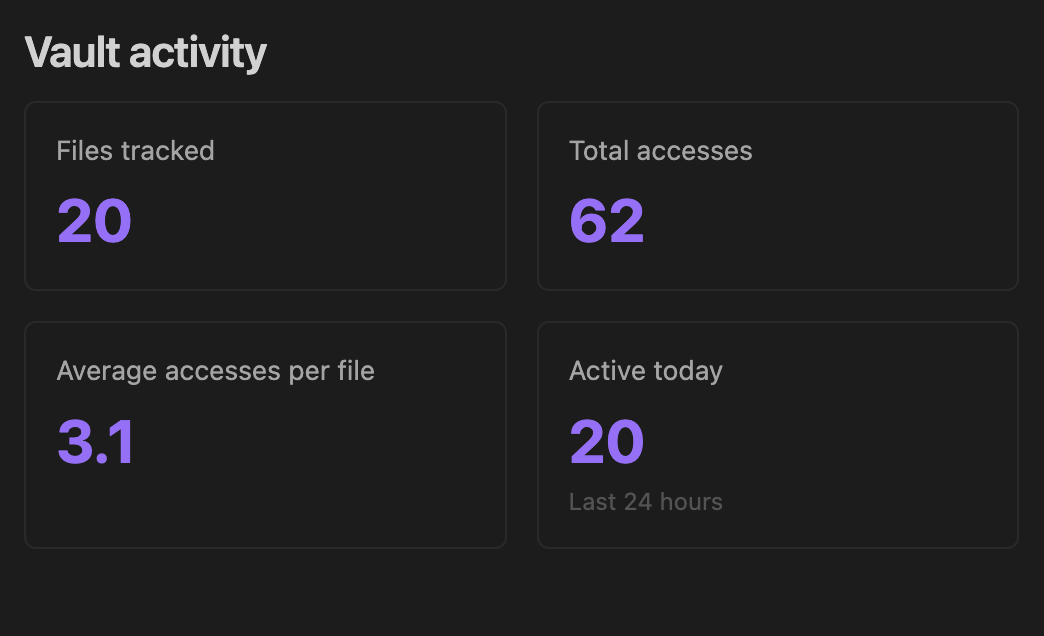
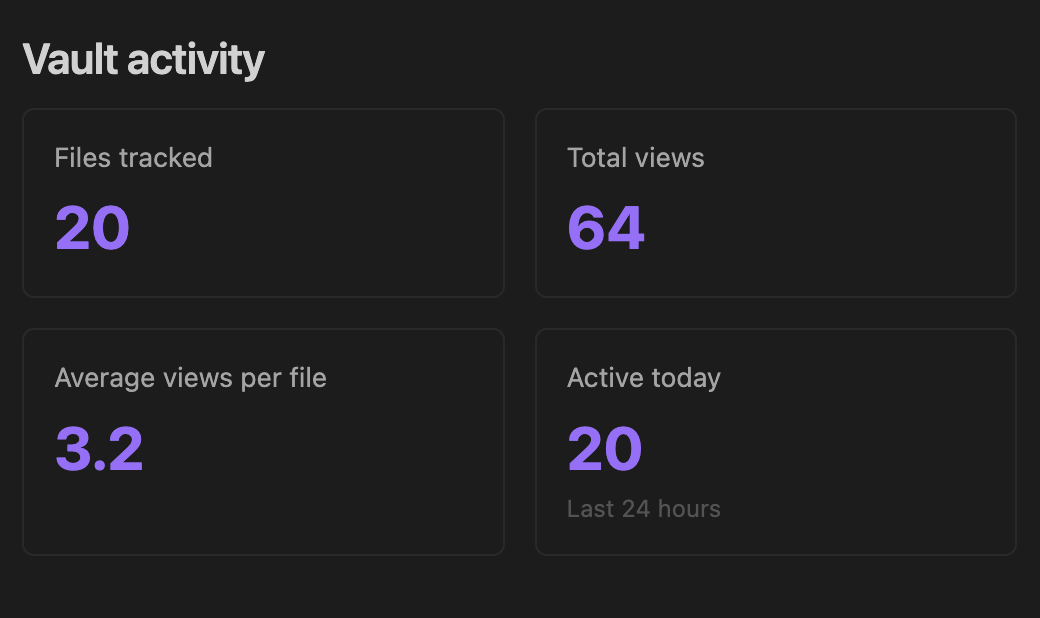
update description

diff --git a/src/ActivityTracker.ts b/src/ActivityTracker.ts
@@ -110,7 +110,7 @@ export class ActivityTracker {
 		const file = app.vault.getAbstractFileByPath(randomNote.path);
 		if (file instanceof TFile) {
 			await app.workspace.getLeaf().openFile(file);
-			new Notice(`Opened neglected note: ${file.basename}`);
+			new Notice(`Opened inactive note: ${file.basename}`);
 		} else {
 			new Notice('Note no longer exists: ' + randomNote.path);
 		}

diff --git a/src/main.ts b/src/main.ts
@@ -72,7 +72,7 @@ export default class VaultActivityPlugin extends Plugin {
 
 		this.addCommand({
 			id: 'open-random-neglected',
-			name: 'Open random neglected note',
+			name: 'Open random inactive note',
 			callback: () => void this.tracker.openRandomNeglected(this.app)
 		});
 

diff --git a/README.md b/README.md
@@ -1,6 +1,6 @@
 # Vault Activity
 
-Track how often you access notes, Bases, and attachments across your vault to map your overall usage patterns. Use these insights to identify which areas are most active and which files or datasets have been forgotten, guiding cleaner organization and better knowledge retention.
+Track how often you access notes, bases, and attachments across your vault to map your overall usage patterns. Use these insights to identify which areas are most active and which files or datasets have been forgotten, guiding cleaner organization and better knowledge retention.
 
 ![Demo](media/plugin-ui.png)
 
@@ -9,17 +9,19 @@ Track how often you access notes, Bases, and attachments across your vault to ma
 - **Automatic tracking** of file access and modifications
 - **Activity dashboard** showing most/least viewed notes
 - **Smart filtering** with folder exclusions
-- **Random neglected note** command to rediscover forgotten content
+- **Random inactive note** command to rediscover forgotten content
 - **Markdown reports** with activity summaries
 
 ## Commands
 
-- `Open activity dashboard` - View real-time activity stats
-- `Show most viewed notes` - Top 20 most opened files
-- `Show least viewed notes` - Bottom 20 least opened files
-- `Open random neglected note` - Discover forgotten content
-- `Generate activity report` - Create markdown summary
-- `Clear all activity data` - Reset tracking
+| Command                      | Description                   |
+| ---------------------------- | ----------------------------- |
+| `Open activity dashboard`    | View real-time activity stats |
+| `Show most viewed notes`     | Top 20 most opened files      |
+| `Show least viewed notes`    | Bottom 20 least opened files  |
+| `Open random inactive note` | Discover forgotten content    |
+| `Generate activity report`   | Create markdown summary       |
+| `Clear all activity data`    | Reset tracking                |
 
 ## Usage
 
@@ -28,7 +30,7 @@ The plugin automatically tracks your vault activity unless disabled. Open the da
 ### Settings
 
 - Toggle tracking for access/modifications
-- Exclude folders (e.g., templates, attachments)
+- Exclude folders (templates, attachments)
 - View statistics and manage data
 
 ### Data Storage
@@ -38,4 +40,3 @@ Activity data is stored locally in `.obsidian/plugins/vault-activity/data.json`
 ## License
 
 GPL-3.0
-
